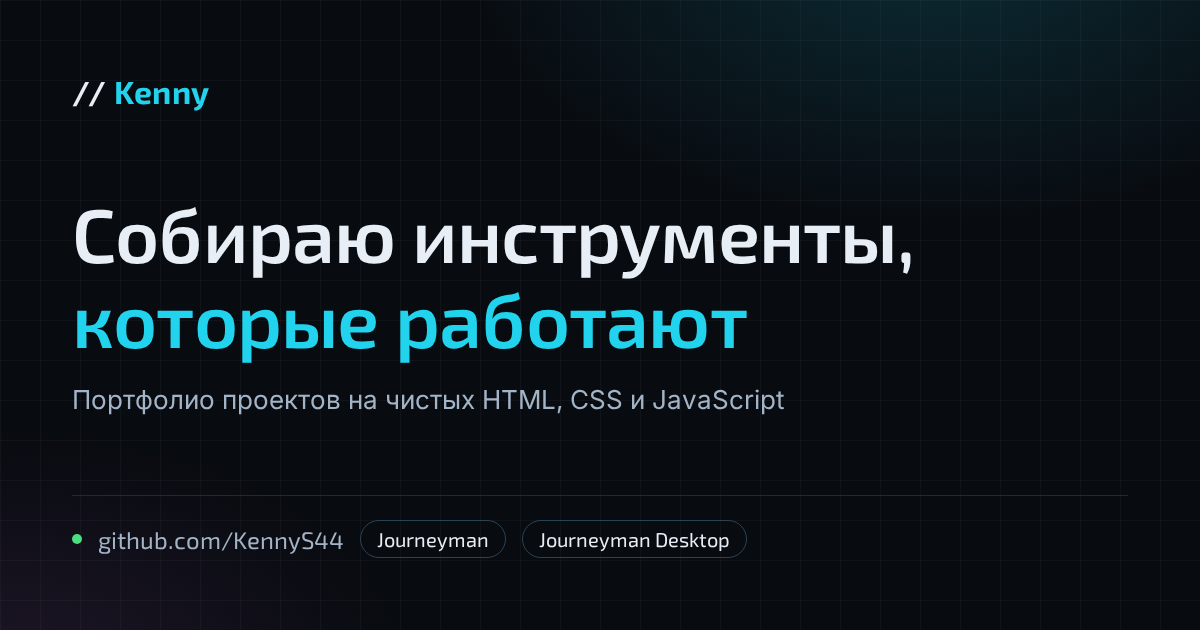
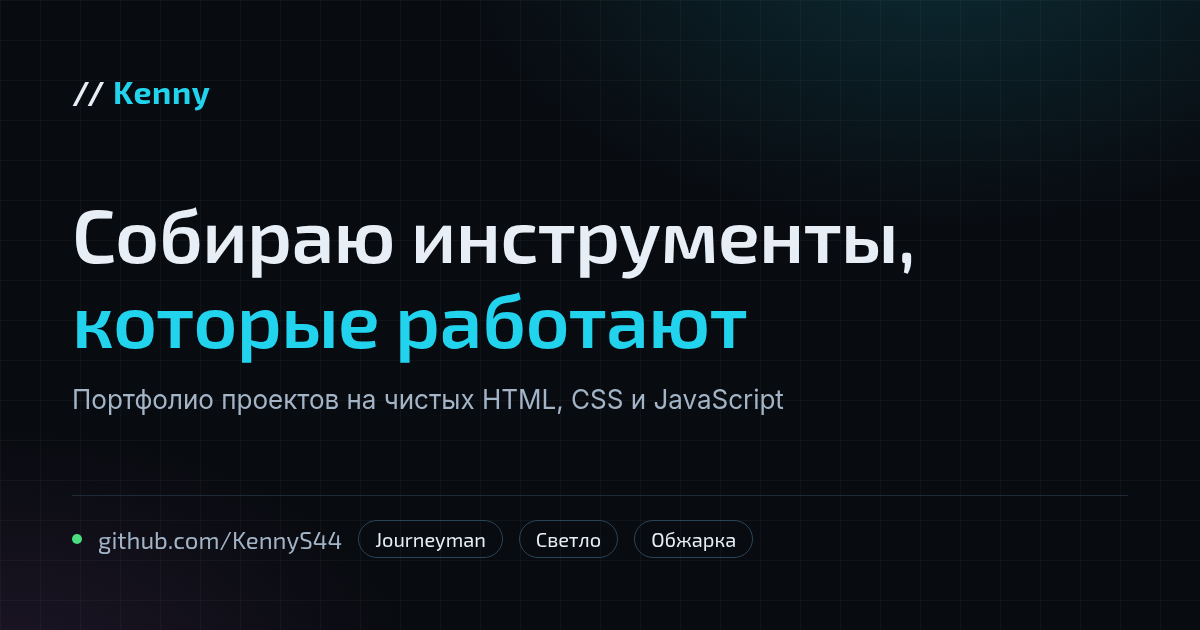
js/main.js, img/: добавлены две карточки коммерческих сайтов и новое og-превью
В main.js описаны проекты «Светло» (лендинг с калькулятором) и «Обжарка»
(каталог с подбором и корзиной) — со снимками и ссылками на демо.
Заголовок, мета-описания и тексты index.html подведены под новый состав
витрины, og.png и og-template.html — под новые метки.

diff --git a/js/main.js b/js/main.js
@@ -70,23 +70,71 @@ const PROJECTS = [
     ],
   },
   {
-    id: 'next',
-    title: 'Следующий проект',
-    tagline: 'Место готово, работа в процессе',
-    status: 'idea',
-    statusText: 'Скоро',
-    year: '—',
-    kind: 'Эксперимент',
-    tags: ['Скоро'],
+    id: 'svetlo',
+    title: 'Светло',
+    tagline: 'Лендинг услуги с расчётом стоимости',
+    status: 'live',
+    statusText: 'Работает',
+    year: '2026',
+    kind: 'Сайт',
+    tags: ['HTML/CSS/JS', 'Калькулятор', 'Формы'],
     summary:
-      'Свободное место для новой работы. Как только репозиторий появится ' +
-      'на GitHub, карточка заполнится описанием проекта.',
+      'Одностраничный сайт клининговой службы: калькулятор стоимости, ' +
+      'заявка с проверкой полей, разделы услуг, отзывов и вопросов. ' +
+      'Светлая деловая тема.',
     about:
-      'Здесь появится следующий проект. Пока оставляю прямую ссылку на ' +
-      'GitHub: всё новое публикуется там в первую очередь.',
-    features: [],
-    stack: '—',
-    repo: GITHUB,
+      'Типовой коммерческий лендинг целиком — от первого экрана до заявки. ' +
+      'Главное здесь калькулятор: человек отмечает тип уборки, площадь и ' +
+      'дополнительные услуги и сразу видит цену построчно, без звонка и ' +
+      'выезда оценщика. Итог расчёта прикладывается к заявке. Компания ' +
+      'вымышленная — проект собран как образец работы.',
+    features: [
+      'Калькулятор с пятью параметрами: сумма пересчитывается на каждое изменение.',
+      'Поле площади и ползунок ведут одно значение, ввод за границами зажимается.',
+      'Проверка заявки: имя, формат телефона, дата не в прошлом — с подсказками у полей.',
+      'Заявка собирается в готовый текст вместе с расчётом.',
+      'Микроразметка вопросов-ответов и превью для соцсетей.',
+    ],
+    stack: 'Чистые HTML, CSS и JavaScript. Шрифт локальный, сборки и сервера нет.',
+    repo: GITHUB + '/Svetlo',
+    demo: 'https://kennys44.github.io/Svetlo/',
+    shots: [
+      { src: 'img/svetlo-hero.jpg', w: 1920, h: 1200, alt: 'Первый экран лендинга: заголовок, кнопки действия и краткие условия работы' },
+      { src: 'img/svetlo-calc.jpg', w: 1920, h: 1200, alt: 'Калькулятор: параметры слева, построчный расчёт и итоговая сумма в закреплённой панели справа' },
+    ],
+  },
+  {
+    id: 'obzharka',
+    title: 'Обжарка',
+    tagline: 'Каталог товаров с подбором и корзиной',
+    status: 'live',
+    statusText: 'Работает',
+    year: '2026',
+    kind: 'Сайт',
+    tags: ['HTML/CSS/JS', 'localStorage', 'Корзина'],
+    summary:
+      'Витрина магазина кофе: подбор по обжарке, стране, способу и цене, ' +
+      'поиск, сортировка и корзина. Подборка сохраняется в адресе страницы.',
+    about:
+      'Ближайший к интернет-магазину проект, который можно собрать без ' +
+      'сервера. Фильтры внутри группы складываются по «или», между группами — ' +
+      'по «и», и всё состояние подбора живёт в адресе: ссылку на выдачу можно ' +
+      'переслать, а кнопка «Назад» отменяет последний фильтр. Корзина лежит ' +
+      'в браузере и переживает перезагрузку. Магазин вымышленный.',
+    features: [
+      'Подбор по четырём условиям сразу, рядом с каждым — число подходящих лотов.',
+      'Поиск по названию, стране и вкусовым нотам; четыре порядка сортировки.',
+      'Корзина с пересчётом суммы и остатками: больше, чем есть на складе, не набрать.',
+      'Состояние подбора в адресе страницы — ссылку можно переслать.',
+      'Обложки товаров рисуются кодом: SVG вместо фотографий.',
+    ],
+    stack: 'Чистые HTML, CSS и JavaScript. Корзина — в localStorage, подбор — в параметрах адреса.',
+    repo: GITHUB + '/Obzharka',
+    demo: 'https://kennys44.github.io/Obzharka/',
+    shots: [
+      { src: 'img/obzharka-grid.jpg', w: 1920, h: 1200, alt: 'Каталог: панель подбора слева, карточки товаров сеткой' },
+      { src: 'img/obzharka-cart.jpg', w: 1920, h: 1200, alt: 'Корзина выезжает поверх каталога: состав заказа, количество и сумма' },
+    ],
   },
 ];
 

diff --git a/index.html b/index.html
@@ -3,14 +3,14 @@
 <head>
 <meta charset="utf-8">
 <meta name="viewport" content="width=device-width, initial-scale=1">
-<title>Kenny — фронтенд-разработчик, портфолио проектов</title>
-<meta name="description" content="Портфолио Kenny: инструменты на чистых HTML, CSS и JavaScript. Journeyman — кодекс мастера настольных ролевых игр: в браузере и в виде настольного приложения. Исходный код открыт на GitHub.">
+<title>Kenny — фронтенд-разработчик: сайты, калькуляторы, каталоги</title>
+<meta name="description" content="Портфолио Kenny: лендинг с калькулятором стоимости, каталог с фильтрами и корзиной, инструменты для мастеров настольных игр. Всё на чистых HTML, CSS и JavaScript, с живыми демо и открытым кодом.">
 <link rel="canonical" href="https://kennys44.github.io/MyScreen/">
 
 <meta property="og:type" content="website">
 <meta property="og:site_name" content="Kenny — витрина проектов">
-<meta property="og:title" content="Kenny — фронтенд-разработчик, портфолио проектов">
-<meta property="og:description" content="Инструменты на чистых HTML, CSS и JavaScript. Journeyman для мастеров настольных ролевых игр: в браузере и в виде настольного приложения. Исходный код открыт на GitHub.">
+<meta property="og:title" content="Kenny — фронтенд-разработчик: сайты, калькуляторы, каталоги">
+<meta property="og:description" content="Коммерческие сайты и инструменты на чистых HTML, CSS и JavaScript: калькулятор стоимости, каталог с корзиной, кодекс мастера НРИ. Живые демо и открытый код.">
 <meta property="og:url" content="https://kennys44.github.io/MyScreen/">
 <meta property="og:image" content="https://kennys44.github.io/MyScreen/img/og.png">
 <meta property="og:image:width" content="1200">
@@ -49,10 +49,10 @@
     <p class="eyebrow">Витрина работ</p>
     <h1>Собираю инструменты,<br><span class="accent">которые работают</span></h1>
     <p class="lead">
-      Здесь собраны мои проекты — инструменты для мастеров настольных игр,
-      которые работают и в браузере, и отдельным приложением. Исходный код
-      открыт, а веб-версию можно попробовать прямо сейчас, ничего не
-      устанавливая. Откройте карточку, чтобы посмотреть проект ближе.
+      Здесь собраны мои проекты: коммерческие сайты с расчётом и корзиной и
+      инструменты, которые работают без сервера. Каждый можно открыть и
+      потрогать прямо сейчас — исходный код лежит на GitHub. Откройте
+      карточку, чтобы посмотреть проект ближе.
     </p>
     <div class="hero-actions">
       <a class="btn btn-solid" href="#projects">Смотреть проекты</a>
@@ -80,10 +80,11 @@
     </div>
     <div class="about">
       <p>
-        Делаю инструменты, которые решают одну задачу и не требуют сервера:
-        данные остаются у пользователя, а всё остальное работает офлайн — и в
-        браузере, и отдельным приложением. Ценю чистые интерфейсы, честные
-        тексты и код, который можно спокойно прочитать через полгода.
+        Делаю сайты и инструменты на чистых HTML, CSS и JavaScript — без
+        тяжёлых сборок и без сервера там, где он не нужен. Лендинг с расчётом,
+        каталог с корзиной, офлайн-приложение: разные задачи, один подход.
+        Ценю чистые интерфейсы, честные тексты и код, который можно спокойно
+        прочитать через полгода.
       </p>
       <p>
         Новые проекты появляются на GitHub — там же лежит исходный код всего,

diff --git a/tools/og-template.html b/tools/og-template.html
@@ -55,7 +55,8 @@
     <span class="dot"></span>
     <span>github.com/KennyS44</span>
     <span class="tag">Journeyman</span>
-    <span class="tag">Journeyman Desktop</span>
+    <span class="tag">Светло</span>
+    <span class="tag">Обжарка</span>
   </div>
 </body>
 </html>

diff --git a/README.md b/README.md
@@ -16,6 +16,8 @@
     img/apple-touch-icon.png  иконка для экрана «Домой» на iOS
     img/journeyman-*.jpg      снимки Journeyman: холст пространства и объект
     img/journeyman-desktop.png снимок настольной версии
+    img/svetlo-*.jpg          снимки лендинга «Светло»
+    img/obzharka-*.jpg        снимки каталога «Обжарка»
     tools/og-template.html    шаблон, из которого снимается og.png
     robots.txt                разрешение обхода + указатель на карту сайта
     sitemap.xml               карта сайта для Google и Яндекса
